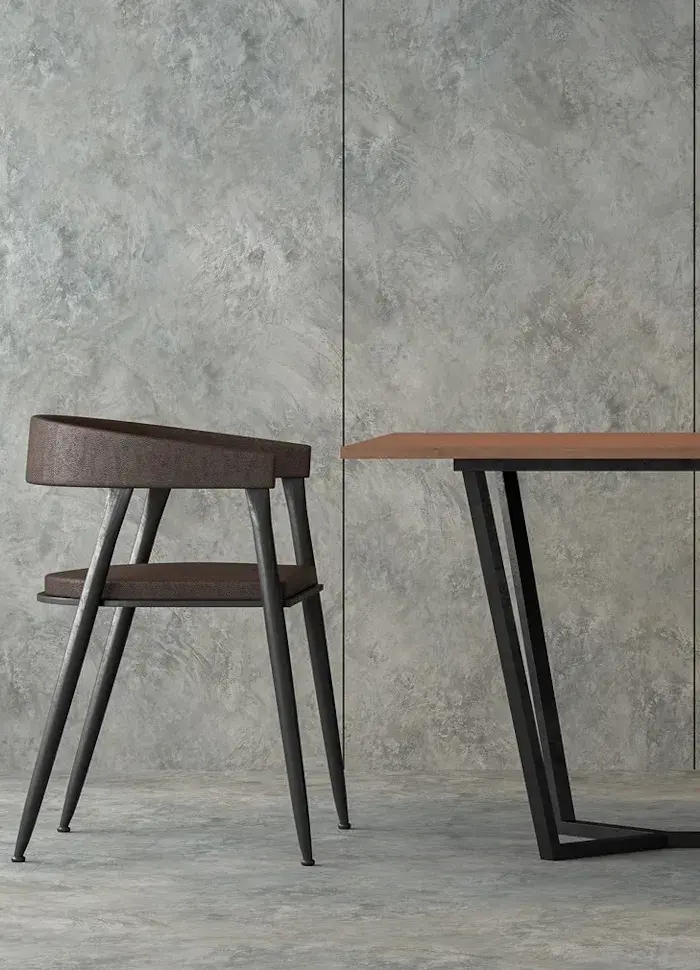
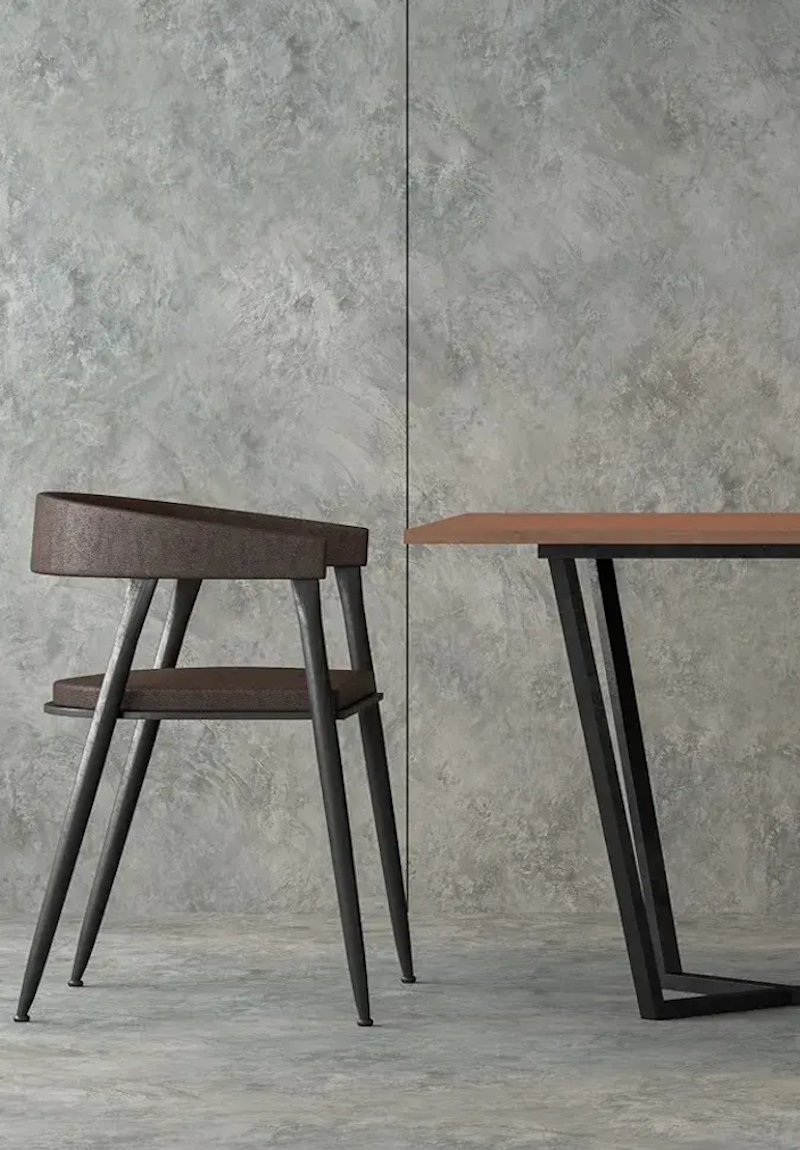
Rjhhtrwbz - aboutData

diff --git a/src/data/aboutData.js b/src/data/aboutData.js
@@ -19,13 +19,14 @@ import slider1_Portrait from "../assets/images/backgrounds/stool-wooden-backgrou
 import slider2 from "../assets/images/backgrounds/Loft-chair-and-table.webp";
 import slider2_Portrait from "../assets/images/backgrounds/Loft-chair-and-table-portrait.webp";
 import slider3 from "../assets/images/backgrounds/with-clocks_big.webp"; // портретной версии нет
+import slider3_Portrait from "../assets/images/backgrounds/with-clocks_big-portrait.webp"; 
 
 const aboutData = {
   // ------------------ новые слайдерные изображения ------------------
   sliderImages: [
     { image: slider1, imagePortrait: slider1_Portrait },
     { image: slider2, imagePortrait: slider2_Portrait },
-    { image: slider3 },
+    { image: slider3, imagePortrait:slider3_Portrait },
   ],
 
   hero: {
